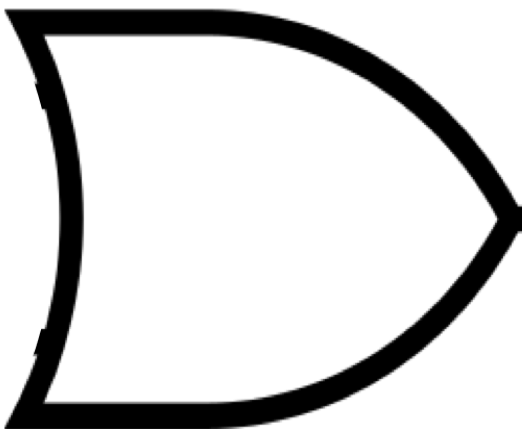
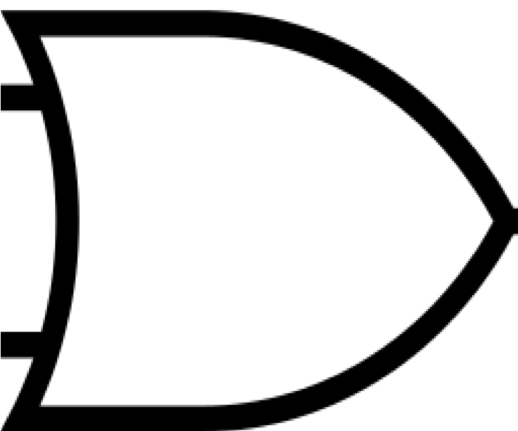
NAND,NOR,XORに対応

diff --git a/info-1/kagai/logic-gate/05.html b/info-1/kagai/logic-gate/05.html
@@ -45,7 +45,43 @@
                 <div id="button-before"></div>
                 <div id="button-next"></div>
             </div>
-            <h3>論理回路のイメージ</h3>
+            <h3>論理回路(NAND・NOR・XOR)のイメージ</h3>
+            <div class="logic-gate-2">
+                <div class="div1" onclick="toggleImage(this)">
+                    <img src="switch_denki.png" />
+                    <span class="switch-value">スイッチAの値: <span class="input-val">0</span></span>
+                </div>
+                <div class="div2" onclick="toggleImage(this)">
+                    <img src="switch_denki.png" />
+                    <span class="switch-value">スイッチBの値: <span class="input-val">0</span></span>
+                </div>
+                <div class="div3"></div>
+                <div class="div4"></div>
+                <div class="div5"></div>
+                <div class="div6"></div>
+                <div class="div7"></div>
+                <div class="div8"></div>
+                <div class="div9"></div>
+                <div class="div10"></div>
+                <div class="div11">
+                    <select id="gate-selector" onchange="changeLogic(this)">
+                        <option value="nand">NAND回路</option>
+                        <option value="nor">NOR回路</option>
+                        <option value="xor">XOR回路</option>
+                    </select>
+                </div>
+                <div class="div12">
+                    <!-- 回路 -->
+                    <img src="nand.png" />
+                </div>
+                <div class="div13"></div>
+                <div class="div14"></div>
+                <div class="div15"></div>
+                <div class="div16">
+                    <img src="denkyuu_off.png" class="light" />
+                    <span class="light-value">ライトの値: <span class="light-val" value="0">0(消灯)</span></span>
+                </div>
+            </div>
         </main>
     </div>
 </body>

diff --git a/info-1/kagai/logic-gate/02.html b/info-1/kagai/logic-gate/02.html
@@ -45,7 +45,7 @@
                 <div id="button-before"></div>
                 <div id="button-next"></div>
             </div>
-            <h3>論理回路のイメージ</h3>
+            <h3>論理回路(AND・OR)のイメージ</h3>
             <div class="logic-gate-2">
                 <div class="div1" onclick="toggleImage(this)">
                     <img src="switch_denki.png" />
